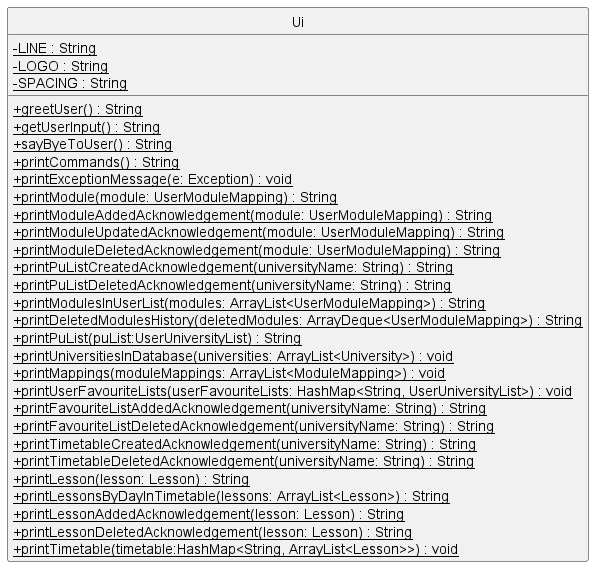
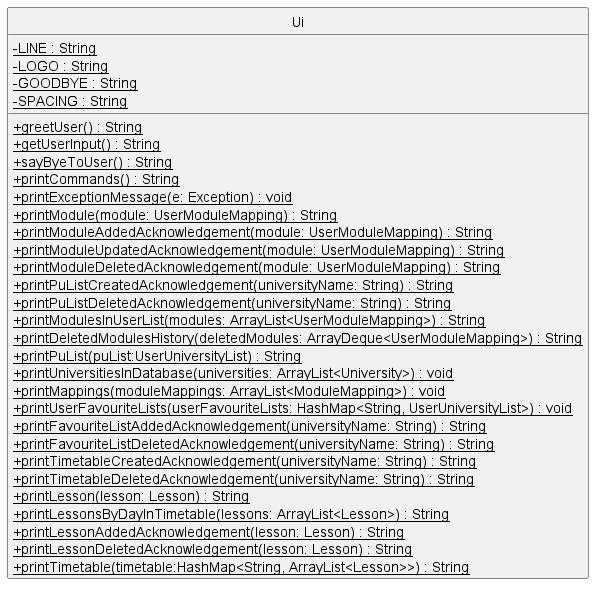
Update UG and DG to reflect change in Ui output

Changed region(s): [[0.0, 0.0592, 0.9884, 1.0], [0.03, 0.0, 0.9584, 0.0592]]

diff --git a/docs/UserGuide.md b/docs/UserGuide.md
@@ -204,7 +204,12 @@ Example Input:
 Expected Output:
 ```
 ____________________________________________________________________________
-Goodbye. Hope to see you again soon!
+ ___               _  _             
+/  _>  ___  ___  _| || |_  _ _  ___ 
+| <_/\/ . \/ . \/ . || . \| | |/ ._>
+`____/\___/\___/\___||___/`_. |\___.
+                          <___'     
+Hope to see you again soon!
 ____________________________________________________________________________
 ```
 
